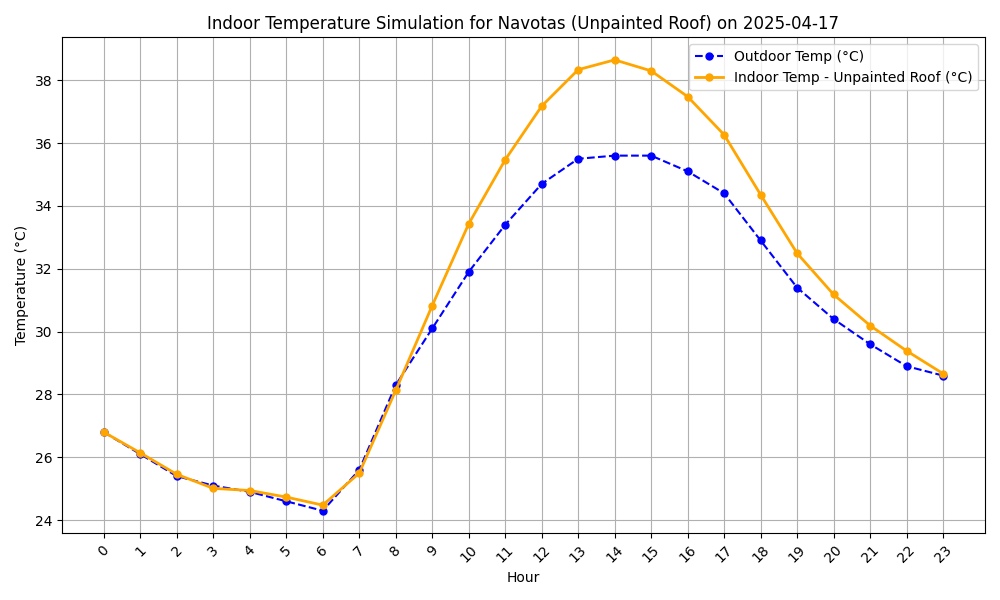
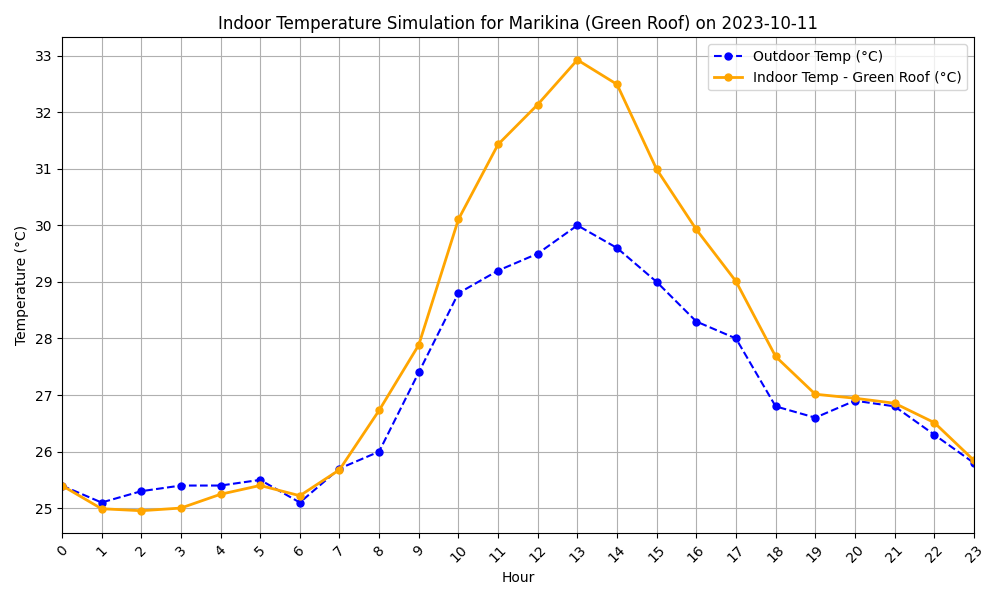
Update04/18/25

diff --git a/ModSimProject.py b/ModSimProject.py
@@ -5,7 +5,11 @@ import numpy as np
 import matplotlib.pyplot as plt
 import matplotlib.cm as cm
 import matplotlib.colors as mcolors
-from datetime import datetime
+from datetime import datetime, timedelta
+import os
+import tempfile
+from PIL import Image
+import mplcursors
 plt.ion()
 
 # Constants
@@ -76,17 +80,43 @@ CITY_COORDINATES = {
 # Supported cities
 CITIES = list(CITY_COORDINATES.keys())
 
-def get_weather_data(city):
-    """Fetch hourly temperature and solar radiation from Open-Meteo API."""
+def get_weather_data(city, sim_date, hours=24):
+    """Fetch hourly temperature and solar radiation for the specified date."""
     try:
         lat, lon = CITY_COORDINATES[city]
-        url = f"https://api.open-meteo.com/v1/forecast?latitude={lat}&longitude={lon}&hourly=temperature_2m,shortwave_radiation&timezone=Asia/Manila"
-        response = requests.get(url)
-        response.raise_for_status()
-        data = response.json()
-        return data['hourly']['temperature_2m'], data['hourly']['shortwave_radiation']
+        current_date = datetime.now().date()
+        sim_date = datetime.strptime(sim_date, '%Y-%m-%d').date()
+
+        if sim_date >= current_date:
+            # Future or current date: Use forecast API
+            url = (
+                f"https://api.open-meteo.com/v1/forecast?latitude={lat}&longitude={lon}"
+                f"&hourly=temperature_2m,shortwave_radiation&timezone=Asia/Manila"
+            )
+            response = requests.get(url)
+            response.raise_for_status()
+            data = response.json()
+            temp = data['hourly']['temperature_2m'][:hours]
+            solar = data['hourly']['shortwave_radiation'][:hours]
+        else:
+            # Past date: Use archive API
+            url = (
+                f"https://archive-api.open-meteo.com/v1/archive?latitude={lat}&longitude={lon}"
+                f"&start_date={sim_date}&end_date={sim_date}"
+                f"&hourly=temperature_2m,shortwave_radiation&timezone=Asia/Manila"
+            )
+            response = requests.get(url)
+            response.raise_for_status()
+            data = response.json()
+            temp = data['hourly']['temperature_2m'][:hours]
+            solar = data['hourly']['shortwave_radiation'][:hours]
+
+        return temp, solar
+
     except requests.RequestException as e:
-        print(f"Error fetching weather data for {city}: {e}")
+        print(f"Error fetching weather data for {city} on {sim_date}: {e}")
+        if isinstance(e, requests.HTTPError) and e.response.status_code == 400:
+            print("Likely cause: Invalid API request (e.g., future date for archive API or invalid parameters).")
         return None, None
 
 def calculate_U_roof():
@@ -99,14 +129,14 @@ def calculate_U_roof():
     U_roof = 1 / R_total
     return U_roof
 
-def simulate_indoor_temp(city, color, hours=24):
-    """Simulate indoor temperature for a given city and roof color."""
+def simulate_indoor_temp(city, color, sim_date, hours=24):
+    """Simulate indoor temperature for a given city, roof color, and date."""
     if city not in CITIES:
         raise ValueError(f"City {city} not supported. Choose from {CITIES}")
     if color not in ROOF_ABSORPTIVITY:
         raise ValueError(f"Color {color} not supported. Choose from {list(ROOF_ABSORPTIVITY.keys())}")
 
-    temps_outside, solar_radiation = get_weather_data(city)
+    temps_outside, solar_radiation = get_weather_data(city, sim_date)
     if temps_outside is None or solar_radiation is None:
         return None, None
 
@@ -126,7 +156,7 @@ def simulate_indoor_temp(city, color, hours=24):
             continue
 
         # Heat transfer calculations
-        Q_solar = I_solar * ROOF_AREA * alpha * 0.1 # Reduced to 10%
+        Q_solar = I_solar * ROOF_AREA * alpha * 0.1  # Reduced to 10%
         Q_roof = U_roof * ROOF_AREA * (T_out - T_in)
         Q_window = H_WINDOW * WINDOW_AREA * (T_in - T_out)
 
@@ -152,10 +182,9 @@ def simulate_indoor_temp(city, color, hours=24):
 
     return temps_outside[:hours], temp_inside
 
-def print_temperature_table(city, color, T_out, T_in):
-    """Print a table of outdoor and indoor temperatures with the current date."""
-    current_date = datetime.now().strftime("%Y-%m-%d")  # Format: YYYY-MM-DD
-    print(f"\nTemperature Data for {city} with {color.capitalize()} Roof on {current_date}")
+def print_temperature_table(city, color, T_out, T_in, sim_date):
+    """Print a table of outdoor and indoor temperatures for the specified date."""
+    print(f"\nTemperature Data for {city} with {color.capitalize()} Roof on {sim_date}")
     print("-" * 50)
     print(f"{'Hour':<6} {'Outdoor Temp (°C)':<20} {'Indoor Temp (°C)':<20}")
     print("-" * 50)
@@ -163,61 +192,185 @@ def print_temperature_table(city, color, T_out, T_in):
         print(f"{h:<6} {out:<20.2f} {ins:<20.2f}")
     print("-" * 50)
 
+def create_gif(frame_files, output_gif, duration=500):
+    """Combine PNG frames into a GIF."""
+    images = [Image.open(f) for f in frame_files]
+    images[0].save(
+        output_gif,
+        save_all=True,
+        append_images=images[1:],
+        duration=duration,
+        loop=0
+    )
 
-def plot_simulation(city, color):
-    """Plot indoor vs outdoor temperatures with hour labels and dotted points."""
-    T_out, T_in = simulate_indoor_temp(city, color)
+def plot_simulation(city, color, sim_date):
+    """Plot indoor vs outdoor temperatures with interactivity and create an animated GIF."""
+    T_out, T_in = simulate_indoor_temp(city, color, sim_date)
     if T_out is None or T_in is None:
         print("Cannot plot due to missing weather data.")
         return
 
-    print_temperature_table(city, color, T_out, T_in)
+    print_temperature_table(city, color, T_out, T_in, sim_date)
 
-    current_date = datetime.now().strftime("%Y-%m-%d")
-    plt.figure(figsize=(10, 6))
+    # Create temporary directory for frames
+    with tempfile.TemporaryDirectory() as temp_dir:
+        frame_files = []
+
+        # Generate frames for each hour
+        for h in range(24):
+            plt.figure(figsize=(10, 6))
+            hours = np.arange(h + 1)
+
+            # Plot up to current hour
+            plt.plot(
+                hours, T_out[:h + 1], label="Outdoor Temp (°C)",
+                linestyle='--', color='blue', marker='o', markersize=5
+            )
+            plt.plot(
+                hours, T_in[:h + 1], label=f"Indoor Temp - {color.capitalize()} Roof (°C)",
+                linestyle='-', color='orange', linewidth=2, marker='o', markersize=5
+            )
+
+            plt.title(f"Indoor Temperature Simulation for {city} ({color.capitalize()} Roof) on {sim_date}")
+            plt.xlabel("Hour")
+            plt.ylabel("Temperature (°C)")
+            plt.legend()
+            plt.grid(True)
+            plt.xticks(np.arange(0, 24, 1), [str(i) for i in range(24)], rotation=45)
+            plt.xlim(0, 23)
+            plt.ylim(min(min(T_out), min(T_in)) - 1, max(max(T_out), max(T_in)) + 1)
+            plt.tight_layout()
+
+            # Save frame
+            frame_path = os.path.join(temp_dir, f"frame_{h:03d}.png")
+            plt.savefig(frame_path)
+            frame_files.append(frame_path)
+            plt.close()
+
+        # Create GIF
+        create_gif(frame_files, "simulation_plot.gif", duration=500)
+
+    # Generate static plot with interactivity
+    fig, ax = plt.subplots(figsize=(10, 6))
     hours = np.arange(24)
-
-    # Plot with dotted points at each hour
-    plt.plot(hours, T_out, label="Outdoor Temp (°C)", linestyle='--', color='blue', marker='o', markersize=5)
-    plt.plot(hours, T_in, label=f"Indoor Temp - {color.capitalize()} Roof (°C)", linestyle='-', color='orange',
-             linewidth=2, marker='o', markersize=5)
-
-    plt.title(f"Indoor Temperature Simulation for {city} ({color.capitalize()} Roof) on {current_date}")
-    plt.xlabel("Hour")
-    plt.ylabel("Temperature (°C)")
-    plt.legend()
-    plt.grid(True)
-
-    # Set x-axis labels to "0" to "24"
-    plt.xticks(hours, [str(h) for h in hours], rotation=45)
-
-    # Remove excess space before Hour 0 and after Hour 23
-    plt.xlim(0, 23)
-
+    line_out, = ax.plot(
+        hours, T_out, label="Outdoor Temp (°C)",
+        linestyle='--', color='blue', marker='o', markersize=5
+    )
+    line_in, = ax.plot(
+        hours, T_in, label=f"Indoor Temp - {color.capitalize()} Roof (°C)",
+        linestyle='-', color='orange', linewidth=2, marker='o', markersize=5
+    )
+    ax.set_title(f"Indoor Temperature Simulation for {city} ({color.capitalize()} Roof) on {sim_date}")
+    ax.set_xlabel("Hour")
+    ax.set_ylabel("Temperature (°C)")
+    ax.legend()
+    ax.grid(True)
+    ax.set_xticks(hours)
+    ax.set_xticklabels([str(h) for h in hours], rotation=45)
+    ax.set_xlim(0, 23)
     plt.tight_layout()
-    plt.savefig("simulation_plot.png")
 
-def visualize_thermal(city, color):
-    """Visualize indoor temperature as a heatmap with the current date."""
-    _, T_in = simulate_indoor_temp(city, color)
-    if T_in is None:
+    # Add interactivity
+    cursor = mplcursors.cursor([line_out, line_in], hover=True)
+    @cursor.connect("add")
+    def on_add(sel):
+        index = int(round(sel.target[0]))
+        if 0 <= index < 24:
+            sel.annotation.set_text(
+                f"Hour: {index}\nOutdoor: {T_out[index]:.2f} °C\nIndoor: {T_in[index]:.2f} °C"
+            )
+
+    plt.savefig("simulation_plot.png")
+    plt.show(block=True)
+
+def visualize_thermal(city, color, sim_date):
+    """Visualize indoor temperature as a heatmap with interactivity and create an animated GIF."""
+    T_out, T_in = simulate_indoor_temp(city, color, sim_date)
+    if T_out is None or T_in is None:
         print("Cannot visualize due to missing weather data.")
         return
 
-    current_date = datetime.now().strftime("%Y-%m-%d")  # Format: YYYY-MM-DD
-    plt.figure(figsize=(12, 2))
-    plt.imshow([T_in], aspect='auto', cmap='inferno', extent=[0, 24, 0, 1])
-    plt.colorbar(label='Indoor Temp (°C)')
-    plt.title(f"Thermal Visualization of Indoor Temp for {city} ({color.capitalize()} Roof) on {current_date}")
-    plt.xlabel("Hour")
-    plt.yticks([])
-    plt.xticks(np.arange(0, 25, 1))
+    # Create temporary directory for frames
+    with tempfile.TemporaryDirectory() as temp_dir:
+        frame_files = []
+
+        # Generate frames for each hour
+        for h in range(24):
+            plt.figure(figsize=(12, 2))
+            # Show temperatures from Hour 0 to current hour
+            data = [T_in[:h+1]]  # All hours up to h
+            plt.imshow(
+                data, aspect='auto', cmap='inferno',
+                extent=[0, h+1, 0, 1], vmin=min(T_in), vmax=max(T_in)
+            )
+            plt.colorbar(label='Indoor Temp (°C)')
+            plt.title(f"Thermal Visualization of Indoor Temp for {city} ({color.capitalize()} Roof) on {sim_date}")
+            plt.xlabel("Hour")
+            plt.yticks([])
+            plt.xticks(np.arange(0, 25, 1))
+            plt.xlim(0, 24)  # Keep full x-axis for context
+            plt.tight_layout()
+
+            # Save frame
+            frame_path = os.path.join(temp_dir, f"heatmap_frame_{h:03d}.png")
+            plt.savefig(frame_path)
+            frame_files.append(frame_path)
+            plt.close()
+
+        # Add final frame with full heatmap
+        plt.figure(figsize=(12, 2))
+        plt.imshow(
+            [T_in], aspect='auto', cmap='inferno',
+            extent=[0, 24, 0, 1], vmin=min(T_in), vmax=max(T_in)
+        )
+        plt.colorbar(label='Indoor Temp (°C)')
+        plt.title(f"Thermal Visualization of Indoor Temp for {city} ({color.capitalize()} Roof) on {sim_date}")
+        plt.xlabel("Hour")
+        plt.yticks([])
+        plt.xticks(np.arange(0, 25, 1))
+        plt.xlim(0, 24)
+        plt.tight_layout()
+
+        # Save final frame
+        final_frame_path = os.path.join(temp_dir, "heatmap_frame_final.png")
+        plt.savefig(final_frame_path)
+        frame_files.append(final_frame_path)
+        plt.close()
+
+        # Create GIF
+        create_gif(frame_files, "thermal_heatmap.gif", duration=500)
+
+    # Generate static heatmap with interactivity
+    fig, ax = plt.subplots(figsize=(12, 2))
+    im = ax.imshow(
+        [T_in], aspect='auto', cmap='inferno', extent=[0, 24, 0, 1],
+        vmin=min(T_in), vmax=max(T_in)
+    )
+    plt.colorbar(im, label='Indoor Temp (°C)')
+    ax.set_title(f"Thermal Visualization of Indoor Temp for {city} ({color.capitalize()} Roof) on {sim_date}")
+    ax.set_xlabel("Hour")
+    ax.set_yticks([])
+    ax.set_xticks(np.arange(0, 25, 1))
     plt.tight_layout()
+
+    # Add interactivity
+    cursor = mplcursors.cursor(im, hover=True)
+    @cursor.connect("add")
+    def on_add(sel):
+        x = sel.target[0]
+        index = int(round(x))
+        if 0 <= index < 24:
+            sel.annotation.set_text(
+                f"Hour: {index}\nOutdoor: {T_out[index]:.2f} °C\nIndoor: {T_in[index]:.2f} °C"
+            )
+
     plt.savefig("thermal_heatmap.png")
     plt.show(block=True)
 
 def get_user_input():
-    """Get validated user input for city and color."""
+    """Get validated user input for city, color, and simulation date."""
+    # City input
     print("Available cities:", ", ".join(CITIES))
     while True:
         city = input("Enter city: ").strip().title()
@@ -225,6 +378,7 @@ def get_user_input():
             break
         print(f"Invalid city. Choose from: {', '.join(CITIES)}")
 
+    # Color input
     print("Available roof colors:", ", ".join(ROOF_ABSORPTIVITY.keys()))
     while True:
         color = input("Enter roof color: ").strip().lower()
@@ -232,9 +386,23 @@ def get_user_input():
             break
         print(f"Invalid color. Choose from: {', '.join(ROOF_ABSORPTIVITY.keys())}")
 
-    return city, color
+    # Date input
+    min_date = datetime(2020, 1, 1).date()
+    max_date = (datetime.now() + timedelta(days=7)).date()
+    print(f"Enter simulation date (YYYY-MM-DD) between {min_date} and {max_date}:")
+    while True:
+        date_input = input("Enter date: ").strip()
+        try:
+            sim_date = datetime.strptime(date_input, '%Y-%m-%d').date()
+            if min_date <= sim_date <= max_date:
+                break
+            print(f"Date must be between {min_date} and {max_date}.")
+        except ValueError:
+            print("Invalid date format. Use YYYY-MM-DD (e.g., 2025-04-17).")
+
+    return city, color, sim_date.strftime('%Y-%m-%d')
 
 if __name__ == "__main__":
-    city, color = get_user_input()
-    plot_simulation(city, color)
-    visualize_thermal(city, color)
+    city, color, sim_date = get_user_input()
+    plot_simulation(city, color, sim_date)
+    visualize_thermal(city, color, sim_date)
